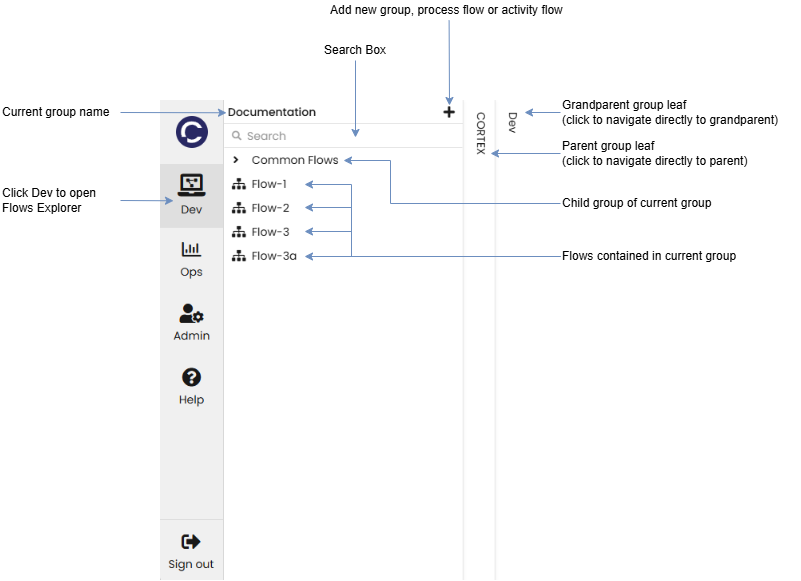
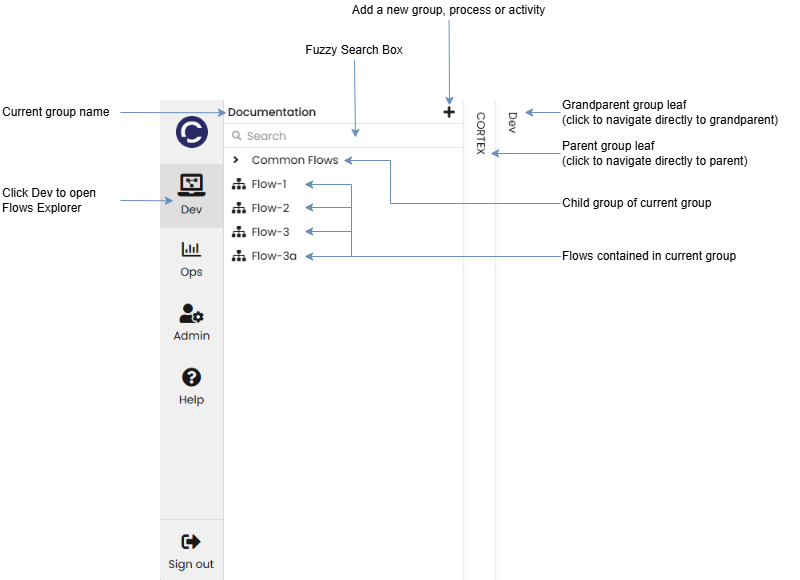
Modified following PO Review

diff --git a/content/en/docs/2025.5/Guides/user-guides/user-interfaces/gateway/dev/flows-explorer.md b/content/en/docs/2025.5/Guides/user-guides/user-interfaces/gateway/dev/flows-explorer.md
@@ -1,7 +1,7 @@
 ---
 title: "Flows Explorer"
 linkTitle: "Flows Explorer"
-description: "View, navigate and extend the flow hierarchy in {{% ctx %}} Gateway."
+description: "Browse, search and create flows and groups in {{% ctx %}} Gateway."
 weight: 1
 ---
 
@@ -9,7 +9,7 @@ weight: 1
 
 ## Summary
 
-The Flows Explorer allows developers to view and navigate the hierarchical structure of [flows][What is a Flow?] and extend the hierarchy by creating new groups and flows.
+The Flows Explorer allows developers to browse and search the hierarchical structure of [flows][What is a Flow?] and extend the hierarchy by creating new groups and flows.
 
 ## Anatomy
 
@@ -27,59 +27,59 @@ Groups that have `Edit` permissions set for users will display a {{< image src="
 
 To create a new group:
 
-* [Navigate][Browse] to the group in the hierarchy where the new group is to be created.
+* [Browse][] to the group in the hierarchy where the new group is to be created.
 * Click the {{< image src="/images/Flows Explorer - Create New.png" >}} icon on the group’s title bar and select `Group` from the dropdown menu.
 * On the *Create a new Group* dialog:
 
-  * Enter a `Name` for the new group. The name can be any literal text and can include space characters. The name does not have to be unique in the system but must be unique at the level it is being created at.
-  * The `Description` is optional but can be any literal text and can include space characters.
-  * The `Permission Groups`, by default, are inherited from the parent group. The inherited `View`/`Edit` permissions may be altered by clicking on the {{< image src="/images/Flows Explorer - Expand Permissions.png" >}} icon, to the right of the label, to reveal the inherited permissions. Tick, or untick, the appropriate `View`/`Edit` permissions for the Security Groups listed.
+  * Enter a `Name` for the new group. A valid name cannot start or end with a full stop, or contain any of the following characters \ / ? * : | " < > &. The name does not have to be unique in the platform but must be unique at the level it is being created at.
+  * The `Description` is optional but can be any literal text.
+  * The `Permission Groups`, by default, are inherited from the parent group. The inherited `View`/`Edit` permissions may be altered by clicking on the {{< image src="/images/Flows Explorer - Expand Permissions.png" >}} icon, to the right of the label, to reveal the inherited permissions. Tick, or untick, the appropriate `View`/`Edit` permissions for the LDAP Groups listed.
 
 * Click OK to create the new group.
 
 See the [Create a Group][Create a Group tutorial] tutorial for a step-by-step guide.
 
-### Create a Process Flow
+### Create a Process
 
-To create a new Process flow:
+To create a new Process:
 
-* [Navigate][Browse] to the group in the hierarchy where the new Process flow is to be created.
+* [Browse][] to the group in the hierarchy where the new Process is to be created.
 * Click the {{< image src="/images/Flows Explorer - Create New.png" >}} icon on the group’s title bar and select `Process` from the dropdown menu.
 * On the *Create a new Process* dialog:
 
-  * Enter a `Name` for the new Process flow. The name can be any literal text and can include the hyphen character, but it cannot include the space or underscore character. The name must be unique in the system.
-  * The `Description` is optional but can be any literal text and can include the space characters.
-  * Select the appropriate `Template` for the Process flow:
+  * Enter a `Name` for the new Process. A valid name can only contain alphabetic, numeric and hyphen characters, whitespace is not allowed. The name must be unique in the platform.
+  * The `Description` is optional but can be any literal text.
+  * Select the appropriate `Template` for the Process:
 
-    * `Blank` - This template will create an empty process flow, which can then be developed as required.
+    * `Blank` - This template will create an empty Process, which can then be developed as required.
 
-      See the [Create a Process Flow from a blank template][Create Process Flow Blank tutorial] tutorial for a step-by-step guide.
-    * `BPMN XML` -This template will provide a text box, into which the XML definition of a Process in BPMN may be inserted. The Process flow can then be extended manually if required.
+      See the [Create a Process from a blank template][Create Process Blank tutorial] tutorial for a step-by-step guide.
+    * `BPMN XML` -This template will provide a text box, into which the XML definition of a Process in BPMN may be inserted. The Process can then be extended manually if required.
 
-      See the [Create a Process Flow using a BPMN XML template][Create Process Flow BPMN tutorial] tutorial for a step-by-step guide.
-    * `Natural Language` - This template will provide a text box, into which the developer can describe the Process to be automated in a natural language. Using the power of AI, a Process flow will be automatically created, which can then be extended manually if required.
+      See the [Create a Process using a BPMN XML template][Create Process BPMN tutorial] tutorial for a step-by-step guide.
+    * `Natural Language` - This template will provide a text box, into which the developer can describe the Process to be automated in a natural language. Using the power of AI, a Process will be automatically created, which can then be extended manually if required.
 
-      See the [Create a Process Flow using a Natural Language Template][Create Process Flow Natural tutorial] tutorial for a step-by-step guide.
+      See the [Create a Process using a Natural Language Template][Create Process Natural tutorial] tutorial for a step-by-step guide.
 
-  * The `Permission Groups`, by default, are inherited from the parent group. The inherited `View`/`Edit` permissions may be altered by clicking on the {{< image src="/images/Flows Explorer - Expand Permissions.png" >}} icon, to the right of the label, to reveal the inherited permissions. Tick, or untick, the appropriate `View`/`Edit` permissions for the Security Groups listed.
+  * The `Permission Groups`, by default, are inherited from the parent group. The inherited `View`/`Edit` permissions may be altered by clicking on the {{< image src="/images/Flows Explorer - Expand Permissions.png" >}} icon, to the right of the label, to reveal the inherited permissions. Tick, or untick, the appropriate `View`/`Edit` permissions for the LDAP Groups listed.
 
-* Click OK to create the new Process flow.
+* Click OK to create the new Process.
 
-### Create an Activity Flow
+### Create an Activity
 
-To create a new Activity flow:
+To create a new Activity:
 
-* [Navigate][Browse] to the group in the hierarchy where the new Activity flow is to be created.
+* [Browse][] to the group in the hierarchy where the new Activity is to be created.
 * Click the {{< image src="/images/Flows Explorer - Create New.png" >}} icon on the group’s title bar and select `Activity` from the dropdown menu.
 * On the *Create a new Activity* dialog:
 
-  * Enter a `Name` for the new Activity flow. The name can be any literal text and can include the hyphen character, but it cannot include the space or underscore character. The name must be unique in the system.
-  * The `Description` is optional but can be any literal text and can include the space characters.
-  * The `Permission Groups`, by default, are inherited from the parent group. The inherited `View`/`Edit` permissions may be altered by clicking on the {{< image src="/images/Flows Explorer - Expand Permissions.png" >}} icon, to the right of the label, to reveal the inherited permissions. Tick, or untick, the appropriate `View`/`Edit` permissions for the Security Groups listed.
+  * Enter a `Name` for the new Activity. A valid name can only contain alphabetic, numeric and hyphen characters, whitespace is not allowed. The name must be unique in the platform.
+  * The `Description` is optional but can be any literal text.
+  * The `Permission Groups`, by default, are inherited from the parent group. The inherited `View`/`Edit` permissions may be altered by clicking on the {{< image src="/images/Flows Explorer - Expand Permissions.png" >}} icon, to the right of the label, to reveal the inherited permissions. Tick, or untick, the appropriate `View`/`Edit` permissions for the LDAP Groups listed.
 
-* Click OK to create the new Activity flow.
+* Click OK to create the new Activity.
 
-See the [Create an Activity Flow][Create an Activity Flow tutorial] tutorial for a step-by-step guide.
+See the [Create an Activity][Create an Activity tutorial] tutorial for a step-by-step guide.
 
 ### Browse
 
@@ -87,7 +87,7 @@ To browse the hierarchy of flows and groups:
 
 * Click on the `Dev` charm on the left of Gateway to open the Flows Explorer and display the top-level groups.
 * Click on a Group, indicated by the {{< image src="/images/Flows Explorer - Group Icon.png" >}} icon before its name, to navigate into that group and display its contents; the parent groups will be displayed as leaves to the right of the Flows Explorer.
-* Click on a Process or Activity flow by clicking on the name to open the flow in the [Main Panel][] of the [Flow Editor][].
+* Click on a Process or Activity name to open the flow in the [Main Panel][] of the [Flow Editor][].
 
 To navigate back up the hierarchy, click on a group leaf to the right of the Flows Explorer to navigate directly to that group.
 
@@ -95,23 +95,23 @@ See the [Browsing the Flows Explorer][Browsing the Flows Explorer tutorial] tuto
 
 ### Search
 
-To search for flow contained in the current group, or group in the hierarchy below the current group, click in the Flows Explorer search field and enter part of the flow name to be searched for. The Flows Explorer will display all flows that match or partially match with the string entered.
+To search the hierarchy, start typing into the search box. All the flow names that contain the search characters will be displayed; the more characters entered, the more refined the search will be, displaying fewer flows. The search is a fuzzy search, which means that even misspelt flow names should identify the intended matching flows. The scope of the search is restricted to the current group and all it's descendant groups.
 
 See the [Searching the Flows Explorer][Searching the Flows Explorer tutorial] tutorial for a step-by-step guide.
 
 ### Rename a Flow
 
-Both Process and Activity flows may be renamed; it is not possible rename groups.
+Both Processes and Activities may be renamed; it is not possible to rename groups.
 
-To rename a flow:
+To rename a Process or Activity:
 
-* Right-click on the flow name and select `Rename` from the context menu.
+* Right-click on the name and select `Rename` from the context menu.
 
-  {{% alert title="Note" %}}You must have `Edit` permissions on the flow to access the `Rename` menu option.{{% /alert %}}
+  {{% alert title="Note" %}}You must have `Edit` permissions on the Process or Activity to access the `Rename` menu option.{{% /alert %}}
 
 * On the *Rename Flow* dialog:
 
-  * Enter a new name for the flow. The name can be any literal text and can include the hyphen character, but it cannot include the space nor underscore character. The flow name must be unique in the system.
+  * Enter a new `Name` for the flow. A valid name can only contain alphabetic, numeric and hyphen characters, whitespace is not allowed. The name must be unique in the platform.
   * Click `OK` to change the name of the flow.
 
 See the [Rename a Flow][Rename a Flow tutorial] tutorial for a step-by-step guide.
@@ -123,7 +123,7 @@ See the [Rename a Flow][Rename a Flow tutorial] tutorial for a step-by-step guid
 * Groups cannot be renamed
 * When performing a search in Flows Explorer, only the matching flows are displayed without any indication of the flow’s location.
 * A search in the Flows Explorer only searches the current group or child groups for matching flows. To search the entire hierarchy, the search must be undertaken at the top-level of the Flows Explorer.
-* The data entered into the Description field when creating a new group or flow is not surfaced anywhere in the system.
+* The data entered into the Description field when creating a new group or flow is not surfaced anywhere in the platform.
 * When creating a new item, only the existing permissions may be changed. It is not possible to add additional permissions.
 
 ## See Also
@@ -135,20 +135,20 @@ See the [Rename a Flow][Rename a Flow tutorial] tutorial for a step-by-step guid
 ### Related Tutorials
 
 * [Create a Group][Create a Group tutorial]
-* [Create a Process Flow from a blank template][Create Process Flow Blank tutorial]
-* [Create a Process Flow using a Natural Language Template][Create Process Flow Natural tutorial]
-* [Create a Process Flow using a BPMN XML template][Create Process Flow BPMN tutorial]
-* [Create an Activity Flow][Create an Activity Flow tutorial]
+* [Create a Process from a blank template][Create Process Blank tutorial]
+* [Create a Process using a BPMN XML template][Create Process BPMN tutorial]
+* [Create a Process using a Natural Language Template][Create Process Natural tutorial]
+* [Create an Activity][Create an Activity tutorial]
 * [Browsing the Flows Explorer][Browsing the Flows Explorer tutorial]
 * [Searching the Flows Explorer][Searching the Flows Explorer tutorial]
 * [Rename a Flow][Rename a Flow tutorial]
 
 [Browsing the Flows Explorer tutorial]: {{< url path="Cortex.Tutorials.Development.FlowsExplorer.Browse" >}}
 [Create a Group tutorial]: {{< url path="Cortex.Tutorials.Development.FlowsExplorer.CreateGroup" >}}
-[Create Process Flow Blank tutorial]: {{< url path="Cortex.Tutorials.Development.FlowsExplorer.CreateProcessBlank" >}}
-[Create Process Flow Natural tutorial]: {{< url path="Cortex.Tutorials.Development.FlowsExplorer.CreateProcessNatural" >}}
-[Create Process Flow BPMN tutorial]: {{< url path="Cortex.Tutorials.Development.FlowsExplorer.CreateProcessBpmnXml" >}}
-[Create an Activity Flow tutorial]: {{< url path="Cortex.Tutorials.Development.FlowsExplorer.CreateActivity" >}}
+[Create Process Blank tutorial]: {{< url path="Cortex.Tutorials.Development.FlowsExplorer.CreateProcessBlank" >}}
+[Create Process Natural tutorial]: {{< url path="Cortex.Tutorials.Development.FlowsExplorer.CreateProcessNatural" >}}
+[Create Process BPMN tutorial]: {{< url path="Cortex.Tutorials.Development.FlowsExplorer.CreateProcessBpmnXml" >}}
+[Create an Activity tutorial]: {{< url path="Cortex.Tutorials.Development.FlowsExplorer.CreateActivity" >}}
 [Rename a Flow tutorial]: {{< url path="Cortex.Tutorials.Development.FlowsExplorer.Rename" >}}
 [Searching the Flows Explorer tutorial]: {{< url path="Cortex.Tutorials.Development.FlowsExplorer.Search" >}}
 

diff --git a/content/en/docs/2025.5/Tutorials/Development/flows-explorer.md b/content/en/docs/2025.5/Tutorials/Development/flows-explorer.md
@@ -11,19 +11,19 @@ weight: 1
 
 {{< scribe title="Creating_a_New_Group_using_the_Flows_Explorer" id="oC6Ed7d4S1aJv4YBfglNYg" >}}
 
-## Create a Process Flow from a Blank Template
+## Create a Process from a Blank Template
 
 {{< scribe title="Creating_a_New_Process_Flow_in_CORTEX_from_a_Blank_Template" id="yWCd3KM0TC-b1cTzrq4_jQ" >}}
 
-## Create a Process Flow using a Natural Language Template
-
-{{< scribe title="Creating_a_Process_Flow_in_CORTEX_Using_a_Natural_Language_Template" id="loEGVCceR_C37XWgpTGO6A" >}}
-
-## Create a Process Flow using a BPMN XML Template
+## Create a Process using a BPMN XML Template
 
 {{< scribe title="Creating_a_Process_Flow_in_CORTEX_Using_a_BPMN_XML_Template" id="w5-0oG9yRPOB0kxjxtE4aA" >}}
 
-## Create an Activity Flow
+## Create a Process using a Natural Language Template
+
+{{< scribe title="Creating_a_Process_Flow_in_CORTEX_Using_a_Natural_Language_Template" id="loEGVCceR_C37XWgpTGO6A" >}}
+
+## Create an Activity
 
 {{< scribe title="Creating_an_Activity_Flow_In_CORTEX" id="YQsDeCHRT5-110qfF9etQA" >}}
 

diff --git a/content/en/docs/2025.5/Guides/user-guides/user-interfaces/gateway/dev/flow-editor/left-panel.md b/content/en/docs/2025.5/Guides/user-guides/user-interfaces/gateway/dev/flow-editor/left-panel.md
@@ -35,7 +35,7 @@ See the [View Blocks in the Palette][View Blocks in the Palette tutorial] tutori
 
 ### Search for a Block
 
-To search for a block by name, start typing into the search box. All the blocks that start with the same search characters will be displayed; the more characters entered, the more refined the search will be, displaying fewer block options. The search is a fuzzy search, which means that even misspelt block names should identify the intended matching blocks.
+To search for a block by name, start typing into the search box. All the blocks that contain the search characters will be displayed; the more characters entered, the more refined the search will be, displaying fewer block options. The search is a fuzzy search, which means that even misspelt block names should identify the intended matching blocks.
 
 See the [Searching the Palette for a Block][Searching the Palette for a Block tutorial] tutorial for a step-by-step guide.
 
